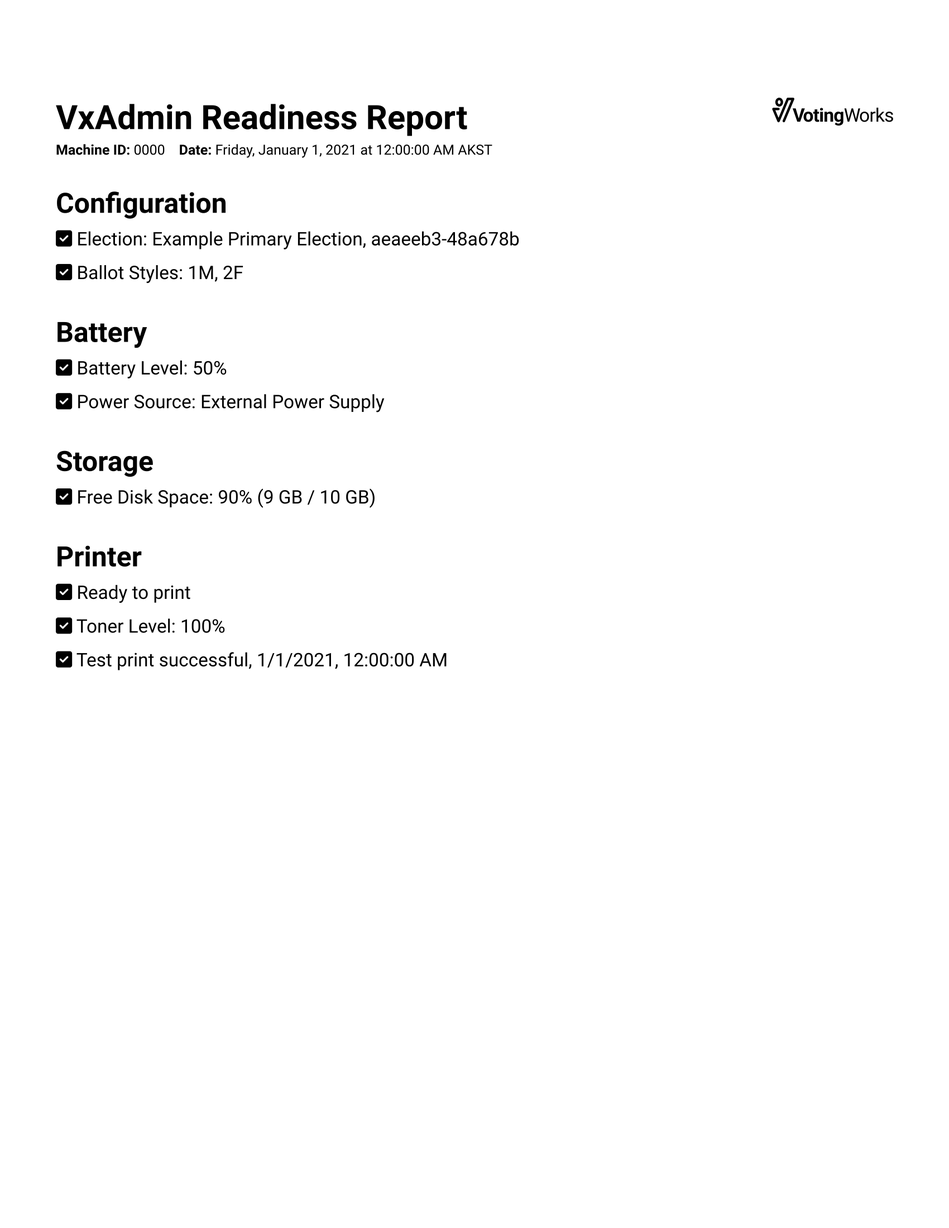
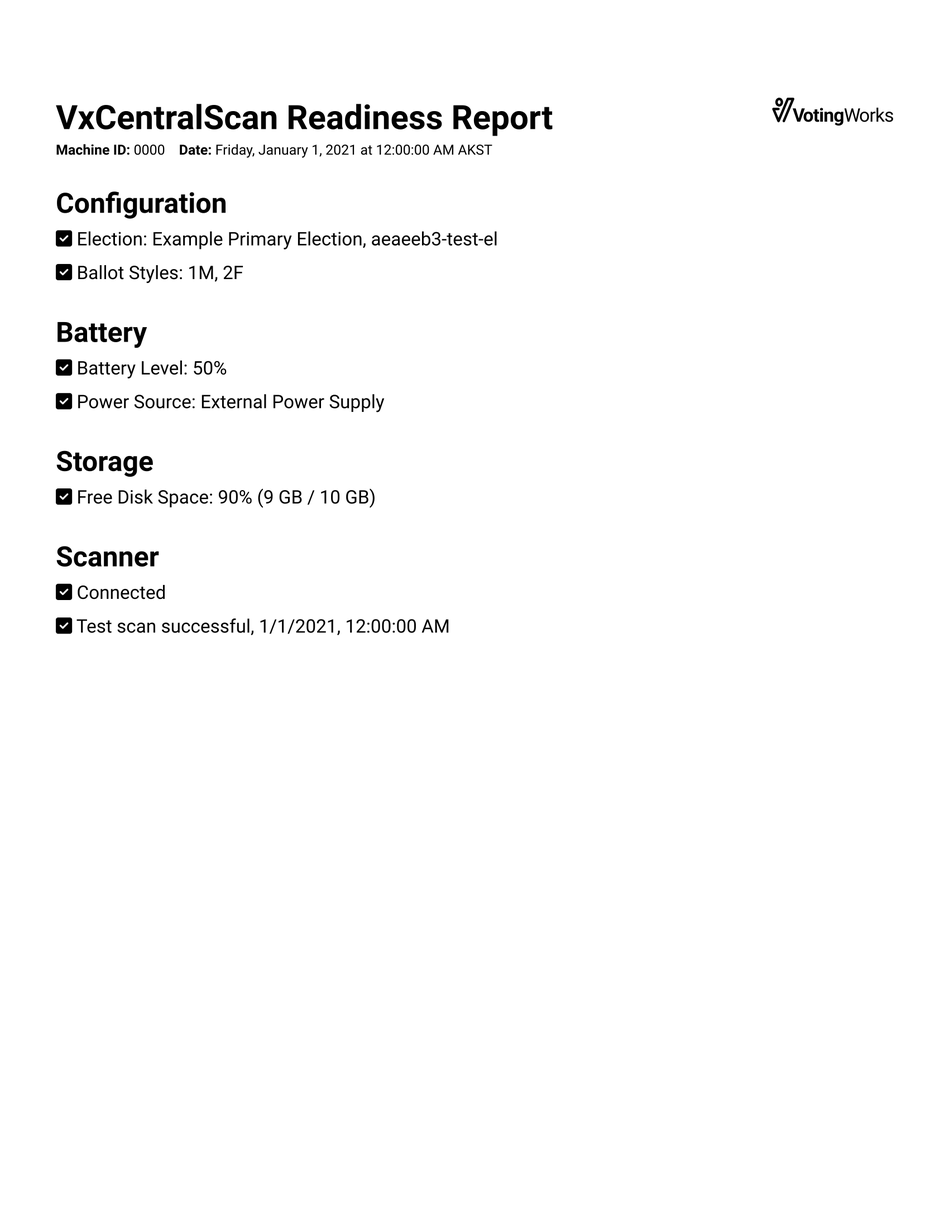
GITBOOK-26: No subject

diff --git a/vxmark/vxmark-error-messages.md b/vxmark/vxmark-error-messages.md
@@ -2,5 +2,5 @@
 
 VxMark is programmed to intuitively explain to a voter or poll worker problems that may occur with a ballot or the VxMark.  The following is a list of potential error messages and the actions a voter or a poll worker should take to remedy the error.
 
-<table><thead><tr><th>Error Message</th><th width="182">Voter Action</th><th>Poll Worker Action</th></tr></thead><tbody><tr><td><strong>Invalid ballot inserted at start of a new voting session:</strong></td><td></td><td></td></tr><tr><td>Unable to Read Ballot - There was a problem reading the ballot information on the inserted sheet. </td><td>Ask a poll worker for help.</td><td>Insert a blank sheet to start a new voting session. </td></tr><tr><td>Wrong Election - The inserted sheet contains a ballot from a different election. </td><td>Ask a poll worker for help.</td><td>Insert a blank sheet to start a new voting session. </td></tr><tr><td>Wrong Precinct - The inserted sheet contains a ballot for a different precinct.</td><td>Ask a poll worker for help.</td><td>Insert a blank sheet to start a new voting session. </td></tr><tr><td>Wrong Test Mode - The inserted sheet contains an official/test ballot.</td><td>Ask a poll worker for help.</td><td>Insert a blank sheet to start a new voting session. Contact your election administrator, if VxMark is in test mode.</td></tr><tr><td><strong>Invalid ballot inserted during final review:</strong></td><td></td><td></td></tr><tr><td>No Ballot Detected - There was no ballot information detected on the inserted sheet.  </td><td>Remove the sheet and insert the ballot previously printed face up. </td><td>Verify the voter inserted the ballot they printed. If not, have them insert it face up.</td></tr><tr><td>Wrong Election - The inserted sheet contains a ballot from a different election. </td><td>Remove the sheet and insert the ballot previously printed face up. </td><td>Verify the voter inserted the ballot they printed. If not, have them insert it face up. </td></tr><tr><td>Wrong Precinct - The inserted sheet contains a ballot for a different precinct.</td><td>Remove the sheet and insert the ballot previously printed face up. </td><td>Verify the voter inserted the ballot they printed. If not, have them insert it face up. </td></tr><tr><td>Wrong Test Mode - The inserted sheet contains a test ballot. </td><td>Remove the sheet and insert the ballot previously printed face up. </td><td>Verify the voter inserted the ballot they printed. If not, have them insert it face up. Contact your election administrator, if VxMark is in test mode.</td></tr><tr><td><strong>Other error messages:</strong></td><td></td><td></td></tr><tr><td>Ask a Poll Worker for Help - There was a problem interpreting your ballot.</td><td>Ask a poll worker for help.</td><td>Insert your Poll Worker Card. Remove the sheet. It may have been loaded with the print side facing down. Reinsert face up or load a new sheet. </td></tr><tr><td>Ask a Poll Worker for Help - You have indicated your ballot needs changes. </td><td>Ask a poll worker for help.</td><td>Insert your Poll Worker Crd. Remove the sheet and follow spoiled ballot procedures. Select <em><code>Continue</code></em> and load a new  sheet. The voter may change their previous selections.</td></tr><tr><td>Ballot Box Full</td><td>Ask a poll worker for help.</td><td>Empty the ballot box and secure ballots as required by rule or law. Insert Poll Worker Card and select <em><code>Yes, Ballot Box is Empty</code></em>.</td></tr><tr><td>Card is Backwards</td><td></td><td>Remove the smartcard, turn it around, and insert it again.</td></tr><tr><td>Internal Connection Problem</td><td>Ask a poll worker for help.</td><td>Reboot the VxMark by holding the power button on the back left of the machine until the screen goes black. Press the button again to turn back on. </td></tr><tr><td>Invalid Card - Remove the card to continue. </td><td></td><td>Contact your election administrator for a new Poll Worker Card.</td></tr><tr><td>No Power Detected</td><td>Ask a poll worker for help.</td><td>Plug power cord into a live outlet.</td></tr><tr><td>Paper is Jammed</td><td>Ask a poll worker for help.</td><td>Insert your Poll Worker Card. Remove the jammed sheet, opening the printer cover of ballot bin if necessary. Start a new voting session for the voter. </td></tr><tr><td>Your voting session will restart shortly. The poll worker card was removed before paper loading completed. Please try again. </td><td>Ask a poll worker for help.</td><td>Insert your Poll Worker Card and restart the voter's session. Be sure to insert paper before removing the Poll Worker Card.</td></tr></tbody></table>
+<table><thead><tr><th>Error Message</th><th width="182">Voter Action</th><th>Poll Worker Action</th></tr></thead><tbody><tr><td><strong>Invalid ballot inserted at start of a new voting session:</strong></td><td></td><td></td></tr><tr><td>Unable to Read Ballot</td><td>N/A</td><td>Insert a blank sheet to start a new voting session. </td></tr><tr><td>No Ballot Detected</td><td>N/A</td><td>Insert a blank sheet to start a new voting session. </td></tr><tr><td>Wrong Election - The inserted sheet is a ballot from a different election. </td><td>N/A</td><td>Insert a blank sheet to start a new voting session. </td></tr><tr><td>Wrong Precinct - The inserted sheet is a ballot for a different precinct.</td><td>N/A</td><td>Insert a blank sheet to start a new voting session. </td></tr><tr><td>Wrong Ballot Mode - The inserted sheet is a test ballot.</td><td>N/A</td><td>Insert a blank sheet to start a new voting session.</td></tr><tr><td>Wrong Ballot Mode - The inserted sheet is an official ballot.</td><td>N/A</td><td>VxMark is in test mode - contact your election administrator for help.</td></tr><tr><td><strong>Invalid ballot inserted before final review:</strong></td><td></td><td></td></tr><tr><td>Unable to Read Ballot</td><td></td><td></td></tr><tr><td>No Ballot Detected</td><td>Remove the sheet and insert the previously printed ballot face up. </td><td>Verify the voter inserted the ballot they previously printed. If not, have them insert it face up.</td></tr><tr><td>Wrong Election - The inserted sheet is a ballot from a different election. </td><td>Remove the sheet and insert the previously printed ballot face up. </td><td>Verify the voter inserted the ballot they previously printed. If not, have them insert it face up.</td></tr><tr><td>Wrong Precinct - The inserted sheet is a ballot for a different precinct.</td><td>Remove the sheet and insert the previously printed ballot face up. </td><td>Verify the voter inserted the ballot they previously printed. If not, have them insert it face up.</td></tr><tr><td>Wrong Ballot Mode - The inserted sheet is a test ballot. </td><td>Remove the sheet and insert the previously printed ballot face up. </td><td>Verify the voter inserted the ballot they previously printed. If not, have them insert it face up.</td></tr><tr><td><strong>Other error messages:</strong></td><td></td><td></td></tr><tr><td>Ask a poll worker for help - There was a problem interpreting your ballot.</td><td>Ask a poll worker for help.</td><td>Insert your poll worker card. Remove the sheet. It may have been loaded with the print side facing down. Reinsert face up or load a new sheet. </td></tr><tr><td>Ask a poll worker for help - You have indicated your ballot needs changes. </td><td>Ask a poll worker for help.</td><td>Insert your poll worker card. Remove the sheet and follow spoiled ballot procedures. Select <em><code>Continue</code></em> and load a new  sheet. The voter may change their previous selections.</td></tr><tr><td>Ballot Box Full</td><td>Ask a poll worker for help.</td><td>Empty the ballot box and secure ballots as required by rule or law. Insert poll worker card and select <em><code>Yes, Ballot Box is Empty</code></em>.</td></tr><tr><td>Card Backwards</td><td>N/A</td><td>Remove the smart card, turn it around, and insert it again.</td></tr><tr><td>Internal Connection Problem</td><td>Ask a poll worker for help.</td><td>Reboot VxMark by holding the power button on the back left of the machine until the screen goes black. Press the button again to turn it back on. If the problem persists, contact your election administrator.</td></tr><tr><td>Invalid Card - Remove the card to continue. </td><td>N/A</td><td>Try inserting the card again. If the problem persists, contact your election administrator for a new poll worker card.</td></tr><tr><td>Paper is Jammed</td><td>Ask a poll worker for help.</td><td>Insert your poll worker card. Remove the jammed sheet, opening the printer cover of ballot bin if necessary. Start a new voting session for the voter. </td></tr><tr><td>Your voting session will restart shortly. The poll worker card was removed before paper loading completed. Please try again. </td><td>Ask a poll worker for help.</td><td>Insert your poll worker card and restart the voter's session. Be sure to insert paper before removing the poll worker card.</td></tr><tr><td>Printer Cover Open</td><td>Ask a poll worker for help.</td><td>Insert a poll worker card to silence the alert. Close and seal the cover to resume voting.</td></tr></tbody></table>
 

diff --git a/vxmark/voting-sessions.md b/vxmark/voting-sessions.md
@@ -3,50 +3,25 @@
 ### Activating a Voting Session
 
 {% hint style="warning" %}
-A voter may bring their own Personal Assistive Technology (PAT) device (ex. jelly bean switch, sip and puff device, etc.) or headphones. It must have a 3.5mm plug or connector. Once plugged in, a test screen will pop up to assist in configuration.  See [System Administrator Functions & System Diagnostics ](system-administrator-functions-and-system-diagnostics.md)for instructions.&#x20;
+A voter may bring their own Personal Assistive Technology (PAT) device (ex. jelly bean switch, sip and puff device, etc.) or headphones. It must have a 3.5mm plug or connector. Once plugged in, a test screen will pop up to assist in configuration.  See [System Administrator Functions & System Diagnostics ](vxmark-diagnostics.md)for instructions.&#x20;
 {% endhint %}
 
-If a voter chooses to use the VxMark, you'll need to use your Poll Worker Card to select their ballot.&#x20;
+If a voter chooses to use VxMark, you'll need to insert your poll worker card to activate their voting session:
 
-* [ ] insert Poll Worker Card
-* [ ] select the voter's precinct
+* [ ] insert the poll worker card into the card reader beneath the accessible controller
 * [ ] select the voter's ballot style
 
-<div>
-
-<figure><img src="../.gitbook/assets/VxMark Insert Card.png" alt="" width="375"><figcaption></figcaption></figure>
-
- 
-
-<figure><img src="../.gitbook/assets/VxMark Select Precinct.png" alt="" width="375"><figcaption></figcaption></figure>
-
- 
-
-<figure><img src="../.gitbook/assets/VxMark Select Ballot Style (1).png" alt="" width="375"><figcaption></figcaption></figure>
-
-</div>
+<div><figure><img src="../.gitbook/assets/mk-insert-to-vote.png" alt="" width="188"><figcaption></figcaption></figure> <figure><img src="../.gitbook/assets/mk-pw-menu-open-select-choose-bs.jpg" alt="" width="188"><figcaption></figcaption></figure></div>
 
 * [ ] when prompted, feed one sheet of paper into the front input tray
 * [ ] once loaded, the screen will show that the voting session is active
-* [ ] review the ballot style and precinct to ensure it was selected correctly for the voter
-* [ ] remove the Poll Worker Card
+* [ ] review the precinct and ballot style to ensure it was selected correctly for the voter
+* [ ] remove the poll worker card
 
-<div>
-
-<figure><img src="../.gitbook/assets/VxMark Load Ballot Sheet.png" alt=""><figcaption></figcaption></figure>
-
- 
-
-<figure><img src="../.gitbook/assets/VxMark Loading Sheet.png" alt=""><figcaption></figcaption></figure>
-
- 
-
-<figure><img src="../.gitbook/assets/VxMark Voting Session Active.png" alt=""><figcaption></figcaption></figure>
-
-</div>
+<div><figure><img src="../.gitbook/assets/mk-load-sheet.png" alt=""><figcaption></figcaption></figure> <figure><img src="../.gitbook/assets/mk-loading-sheet.png" alt=""><figcaption></figcaption></figure> <figure><img src="../.gitbook/assets/mk-remove-card-to-vote.png" alt=""><figcaption></figcaption></figure></div>
 
 {% hint style="warning" %}
-If the wrong ballot style or precinct was selected, insert the Poll Worker Card (if not already inserted) and select _`Deactivate Voting Session`_ to return to the selection menu.&#x20;
+If the wrong ballot style or precinct was selected, insert the poll worker card (if not already inserted) and select _`Cancel Voting Session`_ to return to the poll worker menu.&#x20;
 {% endhint %}
 
 ### Marking a Ballot
@@ -55,23 +30,7 @@ Let the voter know they can begin voting by selecting _`Start Voting`_.
 
 One contest will display at a time. The voter will select the candidate(s) of their choice. The voter moves to the next contest by selecting _`Next`_. The voter can skip a contest by selecting _`Next`_ without making a selection.  To return to a previous contest, select _`Back`_.  A _`More`_ button will display if there are more candidates or text than fit on a single screen.&#x20;
 
-<div>
-
-<figure><img src="../.gitbook/assets/VxMark Start Voting.png" alt=""><figcaption></figcaption></figure>
-
- 
-
-<figure><img src="../.gitbook/assets/VxMark contest navigation.png" alt=""><figcaption></figcaption></figure>
-
- 
-
-<figure><img src="../.gitbook/assets/VxMark candidate selected.png" alt=""><figcaption></figcaption></figure>
-
- 
-
-<figure><img src="../.gitbook/assets/VxMark Contest with More button.png" alt=""><figcaption></figcaption></figure>
-
-</div>
+<div><figure><img src="../.gitbook/assets/mk-voting-start.png" alt=""><figcaption></figcaption></figure> <figure><img src="../.gitbook/assets/mk-contest-unselected-2 copy.png" alt=""><figcaption></figcaption></figure> <figure><img src="../.gitbook/assets/contest-selected-2.png" alt=""><figcaption></figcaption></figure></div>
 
 {% hint style="info" %}
 If a voter would like to change a selection, they must first deselect a candidate previously selected.&#x20;
@@ -81,37 +40,13 @@ If a voter would like to change a selection, they must first deselect a candidat
 
 To enter a write-in candidate, select _`add write-in candidate`_ and use the keyboard to type in the candidate's name. Select _`Accept`_ when finished.&#x20;
 
-<div>
-
-<figure><img src="../.gitbook/assets/VxMark add write-in.png" alt=""><figcaption></figcaption></figure>
-
- 
-
-<figure><img src="../.gitbook/assets/VxMark write-in keyboard.png" alt=""><figcaption></figcaption></figure>
-
- 
-
-<figure><img src="../.gitbook/assets/VxMark write-in button.png" alt=""><figcaption></figcaption></figure>
-
-</div>
+<div><figure><img src="../.gitbook/assets/mk-contest-unselected-2 copy 2.png" alt=""><figcaption></figcaption></figure> <figure><img src="../.gitbook/assets/mk-input-write-in-2.png" alt=""><figcaption></figcaption></figure> <figure><img src="../.gitbook/assets/mk-write-in-selected.png" alt=""><figcaption></figcaption></figure></div>
 
 ### Reviewing Votes
 
-After working through all contests, a Review Your Votes screen appears that allows the voter to change any vote by selecting _`Change`_. Once selections have been reviewed, select _`Print My Ballot`_. The ballot will print and be displayed for review. The final Review Your Votes screen is displayed to compare the official ballot selections with the screen. Select _`My Ballot is Correct`_ to cast the ballot.&#x20;
+After working through all contests, a _Review Your Votes_ screen appears that allows the voter to change any vote by selecting _`Change`_. Once selections have been reviewed, select _`Print My Ballot`_. The ballot will print and be displayed for review. The final _Review Your Votes_ screen is displayed to compare the official ballot selections with the screen. Select _`Cast My Ballot`_ to cast the ballot.&#x20;
 
-<div>
-
-<figure><img src="../.gitbook/assets/VxMark Review Your Votes.png" alt=""><figcaption></figcaption></figure>
-
- 
-
-<figure><img src="../.gitbook/assets/VxMark Printing Official Ballot.png" alt=""><figcaption></figcaption></figure>
-
- 
-
-<figure><img src="../.gitbook/assets/VxMark Review Votes after Print.png" alt=""><figcaption></figcaption></figure>
-
-</div>
+<div><figure><img src="../.gitbook/assets/mk-review-votes.png" alt=""><figcaption></figcaption></figure> <figure><img src="../.gitbook/assets/printing-official.png" alt=""><figcaption></figcaption></figure> <figure><img src="../.gitbook/assets/mk-review-votes-printed.png" alt=""><figcaption></figcaption></figure></div>
 
 {% hint style="warning" %}
 If the voter removes the ballot from the printer to review, the VxMark will ask if they are still voting. They should reload their ballot to cast the ballot. If the ballot is not reloaded, the VxMark will clear the ballot after five minutes of inactivity.
@@ -119,15 +54,7 @@ If the voter removes the ballot from the printer to review, the VxMark will ask 
 
 The screen will show the ballot being cast and verify it was cast and dropped into the ballot bin.&#x20;
 
-<div>
-
-<figure><img src="../.gitbook/assets/VxMark Casting Ballot.png" alt="" width="188"><figcaption></figcaption></figure>
-
- 
-
-<figure><img src="../.gitbook/assets/VxMark Your ballot was cast.png" alt="" width="188"><figcaption></figcaption></figure>
-
-</div>
+<div><figure><img src="../.gitbook/assets/casting-ballot (1).png" alt="" width="188"><figcaption></figcaption></figure> <figure><img src="../.gitbook/assets/ballot-cast.png" alt="" width="188"><figcaption></figcaption></figure></div>
 
 {% hint style="info" %}
 If headphones are used, using earpad covers and replacing after use is recommended. See the [Supply List](../reference/supply-list.md) for more information.

diff --git a/vxmark/voting-session-language-and-settings.md b/vxmark/voting-session-language-and-settings.md
@@ -1,18 +1,18 @@
 # Voting Session Language & Settings
 
-Voters have a number of options to change the VxMark to suit their individual needs.
+Voters have a number of options to change the VxMark interface to suit their individual needs.
 
 <figure><img src="../.gitbook/assets/image (27).png" alt="" width="188"><figcaption></figcaption></figure>
 
-### Language
+## Ballot Language
 
 To change the language from English to another language select _`English`_ at the top of the screen. Additional language buttons will display, select the preferred language and then select _`Done`_.&#x20;
 
 <figure><img src="../.gitbook/assets/image (28).png" alt="" width="188"><figcaption></figcaption></figure>
 
-### Settings
+## Visual Settings
 
-#### Text and Screen Color
+### Text and Screen Color
 
 Four different color options are available for users. While we provide a short description of who may benefit most from these different options, please note that the user likely knows what setting is best for their disability.&#x20;
 
@@ -24,47 +24,19 @@ Four different color options are available for users. While we provide a short d
 
 **Black text, white background** - used by people who need the highest contrast because of light vision or color perception disabilities or aging.
 
-<div>
+<div><figure><img src="../.gitbook/assets/VxMark Color White text black background.png" alt=""><figcaption></figcaption></figure> <figure><img src="../.gitbook/assets/VxMark Color Gray text dark bkgd.png" alt=""><figcaption></figcaption></figure> <figure><img src="../.gitbook/assets/VxMark Dark text light background.png" alt=""><figcaption></figcaption></figure> <figure><img src="../.gitbook/assets/VxMark color black text white bkgd.png" alt=""><figcaption></figcaption></figure></div>
 
-<figure><img src="../.gitbook/assets/VxMark Color White text black background.png" alt=""><figcaption></figcaption></figure>
-
- 
-
-<figure><img src="../.gitbook/assets/VxMark Color Gray text dark bkgd.png" alt=""><figcaption></figcaption></figure>
-
- 
-
-<figure><img src="../.gitbook/assets/VxMark Dark text light background.png" alt=""><figcaption></figcaption></figure>
-
- 
-
-<figure><img src="../.gitbook/assets/VxMark color black text white bkgd.png" alt=""><figcaption></figcaption></figure>
-
-</div>
-
-#### Text Size
+### Text Size
 
 The default text size is _`Medium`_.  A user can select _`Small`_, _`Large`_, or _`Extra-Large`_ based on their preferences.  Select _`Done`_ to save the selection.&#x20;
 
 <figure><img src="../.gitbook/assets/image (29).png" alt="" width="188"><figcaption></figcaption></figure>
 
-#### Audio
+## Audio Settings
 
 Audio is always defaulted to on when headphones are plugged in. Select _`Mute Audio`_ to mute all sound.  Select _`Enable Audio-Only Mode`_ to hide the screen. Voters using only audio to navigate through the ballot may want to hide the screen for privacy. Additionally, a voter who has a T-coil neckloop may unplug the headphones and plug that device into the headphone jack.&#x20;
 
-<div>
-
-<figure><img src="../.gitbook/assets/VxMark Audit.png" alt=""><figcaption></figcaption></figure>
-
- 
-
-<figure><img src="../.gitbook/assets/VxMark Setting Audio Unmute.png" alt=""><figcaption></figcaption></figure>
-
- 
-
-<figure><img src="../.gitbook/assets/VxMark Audio-Only Mode.png" alt=""><figcaption></figcaption></figure>
-
-</div>
+<div><figure><img src="../.gitbook/assets/VxMark Audit.png" alt=""><figcaption></figcaption></figure> <figure><img src="../.gitbook/assets/VxMark Setting Audio Unmute.png" alt=""><figcaption></figcaption></figure> <figure><img src="../.gitbook/assets/VxMark Audio-Only Mode.png" alt=""><figcaption></figcaption></figure></div>
 
 {% hint style="warning" %}
 All selections above are made for a specific voting session and will reset with the next voter.

diff --git a/reference/hardware-specifications.md b/reference/hardware-specifications.md
@@ -18,7 +18,7 @@ The primary, bottom input tray (Tray 2) has a paper capacity of 150 to 250 piece
 
 #### Fujitsu Scanners
 
-VxCentralScan comes with the [Fujitsu fi-](https://www.fujitsu.com/us/Images/190613\_fi-7160\_Datasheet\_English\_R4.pdf)[8170](https://www.pfu-us.ricoh.com/scanners/fi/fi-8170) scanner, capable of scanning almost one ballot per second. We recommend using the scanner with the stacker (a.k.a output tray) down and fully extended, the stopper flipped up, and the detachable paper chute attached and fully extended:&#x20;
+VxCentralScan comes with the [Fujitsu fi-](https://www.fujitsu.com/us/Images/190613_fi-7160_Datasheet_English_R4.pdf)[8170](https://www.pfu-us.ricoh.com/scanners/fi/fi-8170) scanner, capable of scanning almost one ballot per second. We recommend using the scanner with the stacker (a.k.a output tray) down and fully extended, the stopper flipped up, and the detachable paper chute attached and fully extended:&#x20;
 
 <figure><img src="../.gitbook/assets/image (929).png" alt="" width="267"><figcaption></figcaption></figure>
 
@@ -27,13 +27,3 @@ For more detailed instructions on how to set up the scanner, consult the product
 Clean the fi-8170 before each election and after every 5,000 sheets scanned to maintain peak scanning accuracy. VotingWorks provides a [Fujitsu ScanAid Kit ](https://fujitsuscannerstore.com/cg01000-280401/)alongside the fi-7160. The kit contains a copy of the [cleaning instructions](https://origin.pfultd.com/downloads/IMAGE/manual/fi-7x8060/P3PC-4292-05ENZ0.pdf#page=107) and the cleaning fluid, cloths, and swabs.&#x20;
 
 VotingWorks also supports the larger fi-7600 scanner. The operator's guide can be found [here](https://www.pfu-us.ricoh.com/scanners/fi/fi-7600).
-
-#### VxScan Kiosk Scanner
-
-VxScan uses the [Custom Scanner A4](https://www.custom.biz/en\_US/product/hardware/scanning-and-image-systems/document-scanner/scanner-a4) document scanner as its scanning unit. Unlike the Fujitsu scanners used for central scanning, the Custom scanner is installed into VotingWorks equipment and should never be removed.&#x20;
-
-The Custom Scanner A4 should be cleaned prior to every election. VotingWorks recommends cleaning during Logic and Accuracy testing. To clean the scanner, follow the step by step instructions included in the [Custom Scanner user manual.](https://www.custom4u.it/pages/product/index.php?\_gl=1\*1hme710\*\_ga\*NDg4Mjk0NTAyLjE2NjA4NDI0Mjg.\*\_ga\_N07PHW80WY\*MTY4OTI3MTk5Mi40MS4wLjE2ODkyNzE5OTIuMC4wLjA.) Specifically, apply a small amount of isopropyl alcohol to a microfiber cloth and gently wipe the two pieces of glass exposed when the scanner is opened. This procedure can also be safely performed at the polling place in the case of a scanner malfunction.
-
-### Laptops
-
-VotingWorks uses [Lenovo ThinkPad L14 Gen 4 ](https://www.lenovo.com/us/en/p/laptops/thinkpad/thinkpadl/thinkpad-l14-gen-4-\(14-inch-intel\)/len101t0061)laptops with an integrated card reader for central system laptops.

diff --git a/reference/vvsg-tdp-requirements.md b/reference/vvsg-tdp-requirements.md
@@ -11,7 +11,7 @@ This User Manual in it's entirety maps to Requirement **3.1.5-A**. Including **A
 
 **A.8** is covered by Checklists [Overview](https://docs.voting.works/vxsuite-user-manual-v4/checklists/overview).&#x20;
 
-**A.9** is covered by [Diagnostics VxAdmin](../vxadmin-system-setup/vxadmin-diagnostics.md), [VxScan System Administrator Functions & System Diagnostics](../vxscan/vxscan-diagnostics.md#system-diagnostics), [Diagnostics VxCS](../vxcentralscan/vxcentralscan-diagnostics.md), and [VxMark System Administrator Functions & System Diagnostics.](../vxmark/system-administrator-functions-and-system-diagnostics.md#system-diagnostics)&#x20;
+**A.9** is covered by [Diagnostics VxAdmin](../vxadmin-system-setup/vxadmin-diagnostics.md), [VxScan System Administrator Functions & System Diagnostics](../vxscan/vxscan-diagnostics.md#system-diagnostics), [Diagnostics VxCS](../vxcentralscan/vxcentralscan-diagnostics.md), and [VxMark System Administrator Functions & System Diagnostics.](../vxmark/vxmark-diagnostics.md#system-diagnostics)&#x20;
 {% endhint %}
 
 {% hint style="success" %}
@@ -47,7 +47,7 @@ Requirement **3.1.5-I.3** is covered by [Opening Polls](../election-day-guides/o
 {% endhint %}
 
 {% hint style="success" %}
-Requirement **3.1.5-I.4** is covered by [Diagnostics VxAdmin](../vxadmin-system-setup/vxadmin-diagnostics.md), [VxScan System Administrator Functions & System Diagnostics](../vxscan/vxscan-diagnostics.md#system-diagnostics), [Diagnostics VxCS](../vxcentralscan/vxcentralscan-diagnostics.md), and [VxMark System Administrator Functions & System Diagnostics.](../vxmark/system-administrator-functions-and-system-diagnostics.md#system-diagnostics)&#x20;
+Requirement **3.1.5-I.4** is covered by [Diagnostics VxAdmin](../vxadmin-system-setup/vxadmin-diagnostics.md), [VxScan System Administrator Functions & System Diagnostics](../vxscan/vxscan-diagnostics.md#system-diagnostics), [Diagnostics VxCS](../vxcentralscan/vxcentralscan-diagnostics.md), and [VxMark System Administrator Functions & System Diagnostics.](../vxmark/vxmark-diagnostics.md#system-diagnostics)&#x20;
 {% endhint %}
 
 {% hint style="success" %}

diff --git a/vxmark/vxmark-diagnostics.md b/vxmark/vxmark-diagnostics.md
@@ -1,0 +1,23 @@
+# VxMark Diagnostics
+
+In preparation for an election or in response to issues, the diagnostics interface can help verify VxMark is functioning as expected or pinpoint problems that do arise. Both election managers and system administrators can access the diagnostic interface.
+
+<div><figure><img src="../.gitbook/assets/mk-em-official-diag.png" alt="" width="188"><figcaption></figcaption></figure> <figure><img src="../.gitbook/assets/mk-sa-page-diag (1).png" alt="" width="188"><figcaption></figcaption></figure></div>
+
+The diagnostics screen shows information about how the machine is configured, how much storage is left on the device, and the current status of the hardware. There are tests for the accessible controller, front headphone input, PAT device input and printer-scanner
+
+<figure><img src="../.gitbook/assets/mk-full-diag.png" alt="" width="188"><figcaption></figcaption></figure>
+
+For each component test, simply select _`Test xxx`_ and follow the instructions on the screen. The results of the most recent test are displayed on the diagnostics screen.
+
+<div><figure><img src="../.gitbook/assets/accessible-c-test.png" alt=""><figcaption></figcaption></figure> <figure><img src="../.gitbook/assets/headphone-test.png" alt=""><figcaption></figcaption></figure> <figure><img src="../.gitbook/assets/pat-device-test.png" alt=""><figcaption></figcaption></figure> <figure><img src="../.gitbook/assets/printer-scanner-test.png" alt=""><figcaption></figcaption></figure></div>
+
+{% hint style="warning" %}
+If the headphone or PAT test fails, try to unplug and replug the device and try again. If any test continues to fail, restart VxMark and try again.
+{% endhint %}
+
+### Readiness Report
+
+The readiness report can be used as a record of system diagnostic verification.  Select _`Save Readiness Report`_ to save a copy to a USB drive.&#x20;
+
+<figure><img src="../.gitbook/assets/readiness-report-1.png" alt="" width="375"><figcaption><p>Example VxMark Readiness REport</p></figcaption></figure>

diff --git a/vxmark/vxmark-checklist.md b/vxmark/vxmark-checklist.md
@@ -29,30 +29,29 @@
 
 **To open the polls:**
 
-* [ ] insert the Poll Worker Card into the card reader
+* [ ] insert the poll worker card into the card reader beneath the accessible controller
 * [ ] select _`Open Polls`_
 * [ ] confirm by selecting _`Open Polls`_ again
-* [ ] remove the Poll Worker Card from VxMark
+* [ ] remove the poll worker card
 
 **To activate a voting session:**
 
-* [ ] insert Poll Worker Card
-* [ ] select the voter's precinct
+* [ ] insert the poll worker card
+* [ ] select the voter's precinct (if in _All Precincts_ mode)
 * [ ] select the voter's ballot style
 * [ ] when prompted, feed one sheet of paper into the front input tray
 * [ ] once loaded, the screen will show that the voting session is active
 * [ ] review the ballot style and precinct to ensure it was selected correctly for the voter
-* [ ] remove the Poll Worker Card
+* [ ] remove the poll worker card
 
 **To close the polls:**
 
 * [ ] remove ballot bin seal
 * [ ] remove ballots inside (secure or tabulate as required)
-* [ ] insert Poll Worker Card
-* [ ] select _`View More Actions`_
+* [ ] insert the poll worker card
 * [ ] select _`Close Polls`_
-* [ ] confirm by selecting, _`Close Polls`_
-* [ ] remove the Poll Worker Card from VxMark
+* [ ] confirm by selecting _`Close Polls`_ again
+* [ ] remove the poll worker card
 
 ### Hardware Tear Down
 

diff --git a/vxmark/retaining-and-removing-files-vxmark.md b/vxmark/retaining-and-removing-files-vxmark.md
@@ -2,9 +2,9 @@
 
 ### VxMark Log Files
 
-VxMark does not retain any type of ballot or voter data. The only file to retain is the Log file. Machine log files are saved in the /logs folder on the USB drive. To save the log file, insert a USB drive, then insert an Election Manager Card, and select _`Save Log File`_.
+VxMark does not retain any type of ballot or voter data so the only files to retain after an election are the logs. Logs are saved in the /logs folder on the USB drive. To save logs, insert a USB drive, then insert an election manager or system administrator card, and select _`Save Logs`_.
 
-<figure><img src="../.gitbook/assets/image (31).png" alt="" width="188"><figcaption></figcaption></figure>
+<div><figure><img src="../.gitbook/assets/mk-em-official-logs.png" alt="" width="188"><figcaption></figcaption></figure> <figure><img src="../.gitbook/assets/mk-sa-page copy.png" alt="" width="188"><figcaption></figcaption></figure></div>
 
-To remove the election definition from VxMark, select _`Unconfigure Machine`_. And then confirm by selecting _`Yes, Delete Election Data`_.&#x20;
+To remove the election definition from VxMark, select _`Unconfigure Machine`_ from the election manager or system administrator menu and confirm by selecting _`Delete All Election Data`_.&#x20;
 

diff --git a/reference/seals-and-port-blockers.md b/reference/seals-and-port-blockers.md
@@ -4,13 +4,11 @@
 
 * While in storage, the VxAdmin should be stored in its case with numbered pull tight seals through each of the eyelets to the right and left of the carrying handle on the case. These will be removed and tracked when the case is opened for use and new ones should be applied and tracked when packed up for storage.&#x20;
 * A tamper evident seal should be placed around the laptop over the micro SD card slot to cover the exposed port and add another layer of tamper evidence to the inner of the laptop in the process.
-* RJ45/ethernet lockable port blockers should be placed on the exposed RJ45/ethernet ports.
 
 ### VxCentralScan
 
 * While in storage, the VxCentralScan laptop should be stored in its case with numbered pull tight seals through each of the eyelets to the right and left of the carrying handle on the case. These will be removed and tracked when the case is opened for use and new ones should be applied and tracked when packed up for storage.
 * A tamper evident tape seal should be placed around the laptop over the micro SD card slot to cover the exposed port and add another layer of tamper evidence to the inner of the laptop in the process.
-* RJ45/ethernet lockable port blockers should be placed on the exposed RJ45/ethernet ports.
 
 ### VxScan
 

diff --git a/SUMMARY.md b/SUMMARY.md
@@ -85,8 +85,8 @@
 * [Open and Close Polls](vxmark/open-and-close-polls.md)
 * [Voting Sessions](vxmark/voting-sessions.md)
 * [Voting Session Language & Settings](vxmark/voting-session-language-and-settings.md)
-* [VxMark Error Messages](vxmark/vxmark-error-messages.md)
-* [System Administrator Functions & System Diagnostics](vxmark/system-administrator-functions-and-system-diagnostics.md)
 * [Packing Up VxMark](vxmark/packing-up-vxmark.md)
+* [VxMark Error Messages](vxmark/vxmark-error-messages.md)
+* [VxMark Diagnostics](vxmark/vxmark-diagnostics.md)
 * [Retaining and Removing Files - VxMark](vxmark/retaining-and-removing-files-vxmark.md)
 * [VxMark Checklist](vxmark/vxmark-checklist.md)

diff --git a/vxscan/vxscan-diagnostics.md b/vxscan/vxscan-diagnostics.md
@@ -16,5 +16,5 @@ The most recent test result for each piece of hardware is shown on the diagnosti
 
 The readiness report can be used as a record of system diagnostic verification.  Select _`Save Readiness Report`_ to save a copy to a USB drive.&#x20;
 
-<figure><img src="../.gitbook/assets/readiness-report-1 (1) (1).png" alt="" width="375"><figcaption><p>Example VxScan Readiness Report</p></figcaption></figure>
+<figure><img src="../.gitbook/assets/readiness-report-1 (1) (1) (1).png" alt="" width="375"><figcaption><p>Example VxScan Readiness Report</p></figcaption></figure>
 

diff --git a/vxcentralscan/vxcentralscan-diagnostics.md b/vxcentralscan/vxcentralscan-diagnostics.md
@@ -8,4 +8,4 @@ The scanner status indicates whether the scanner is connected or not. You may _`
 
 The readiness report can be used as a record of system diagnostic verification.  Select _`Save Readiness Report`_ to save a copy to a USB drive.&#x20;
 
-<figure><img src="../.gitbook/assets/readiness-report-1.png" alt="" width="375"><figcaption><p>Example VxCentralScan Readiness Report</p></figcaption></figure>
+<figure><img src="../.gitbook/assets/readiness-report-1 (1).png" alt="" width="375"><figcaption><p>Example VxCentralScan Readiness Report</p></figcaption></figure>
